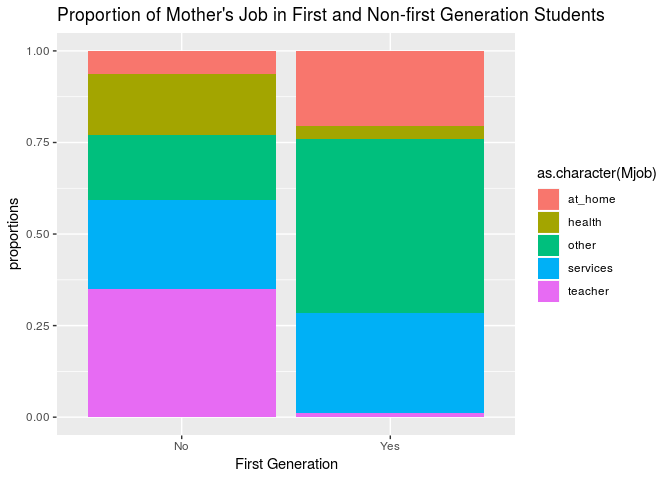
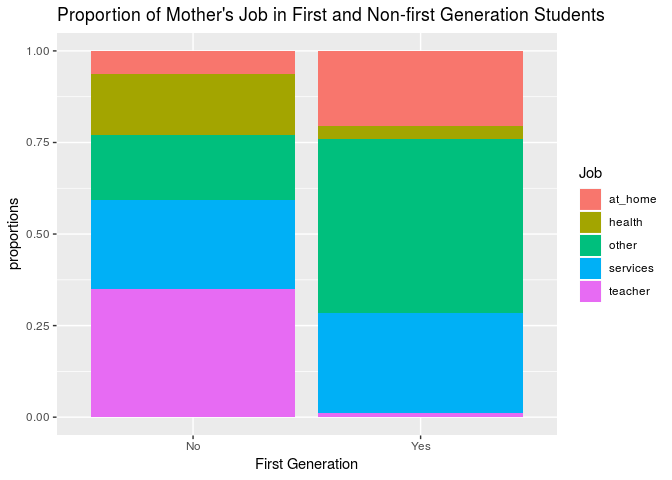
graph

diff --git a/project/project.md b/project/project.md
@@ -1086,7 +1086,7 @@ ggplot(data = students) +
   labs(title = "Proportion of Mother's Job in First and Non-first Generation Students",
        x = "First Generation",
        y = "proportions",
-       ill = "Job")
+       fill = "Job") 
 ```
 
 ![](project_files/figure-gfm/mjob-1.png)<!-- -->
@@ -1101,3 +1101,33 @@ ggplot(data = students) +
 ```
 
 ![](project_files/figure-gfm/fjob%60%60z%60%60xs-1.png)<!-- -->
+
+Factors we will be analyzing: Failures, parents’ job, goout, studytime
+
+``` r
+ggplot(data = students) +
+  geom_boxplot(mapping = aes(x = Mjob, y = avg_score)) +
+  facet_wrap(~ first_gen)
+```
+
+![](project_files/figure-gfm/M-job-1.png)<!-- -->
+
+``` r
+ggplot(data = students) +
+  geom_boxplot(mapping = aes(x = Fjob, y = avg_score)) +
+  facet_wrap(~ first_gen)
+```
+
+![](project_files/figure-gfm/F-job-1.png)<!-- -->
+
+``` r
+ggplot(data = students) +
+  geom_boxplot(mapping = aes(x = as.character(failures), y = avg_score)) +
+  facet_wrap(~ first_gen) +
+  labs(title = "Relationship Between Average Scores and Numbers of Past Failures",
+       subtitle = "First Generation vs. Non=first Generation",
+       x = "First Generation",
+       y = "Grade")
+```
+
+![](project_files/figure-gfm/unnamed-chunk-7-1.png)<!-- -->
